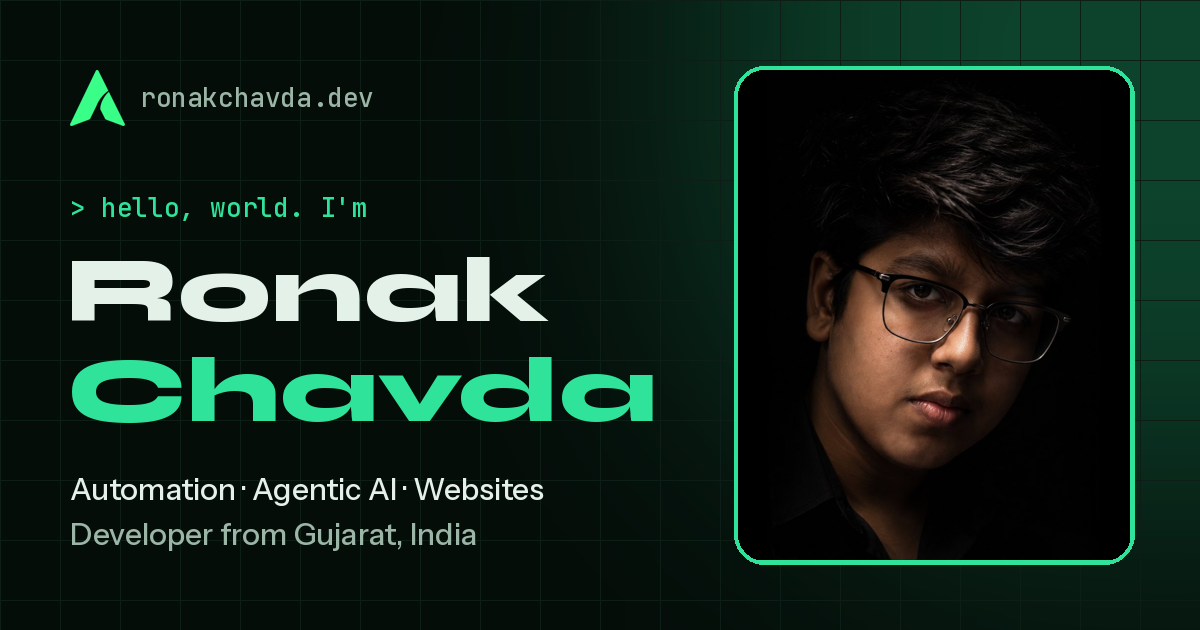
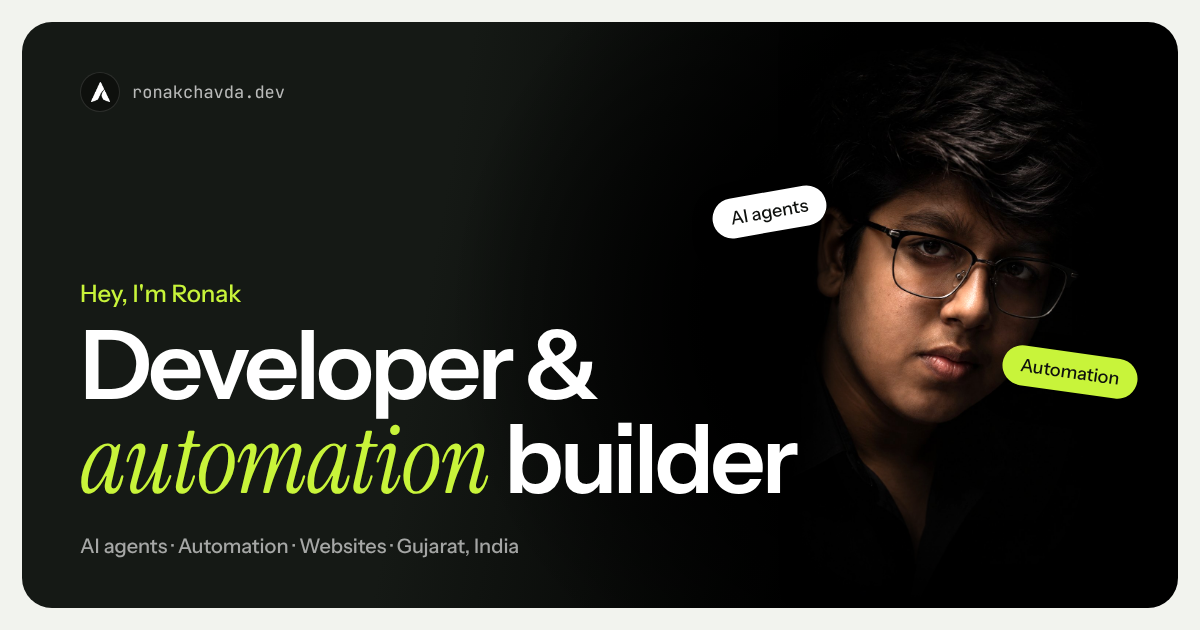
New link preview picture that matches the redesign
Claude-Session: https://claude.ai/code/session_01QiDfdee3rk8jND7Xt8DHM6

diff --git a/app/layout.js b/app/layout.js
@@ -39,14 +39,14 @@ export const metadata = {
     siteName: "Ronak Chavda",
     title: "Ronak Chavda | Developer",
     description: "Automation, agentic AI and websites. Based in Gujarat, India.",
-    images: [{ url: "/og-image.png", width: 1200, height: 630, alt: "Ronak Chavda, Developer" }],
+    images: [{ url: "/og-image.png?v=2", width: 1200, height: 630, alt: "Ronak Chavda, Developer" }],
   },
   twitter: {
     card: "summary_large_image",
     creator: "@RonakChavda_Dev",
     title: "Ronak Chavda | Developer",
     description: "Automation, agentic AI and websites.",
-    images: ["/og-image.png"],
+    images: ["/og-image.png?v=2"],
   },
 };
 
